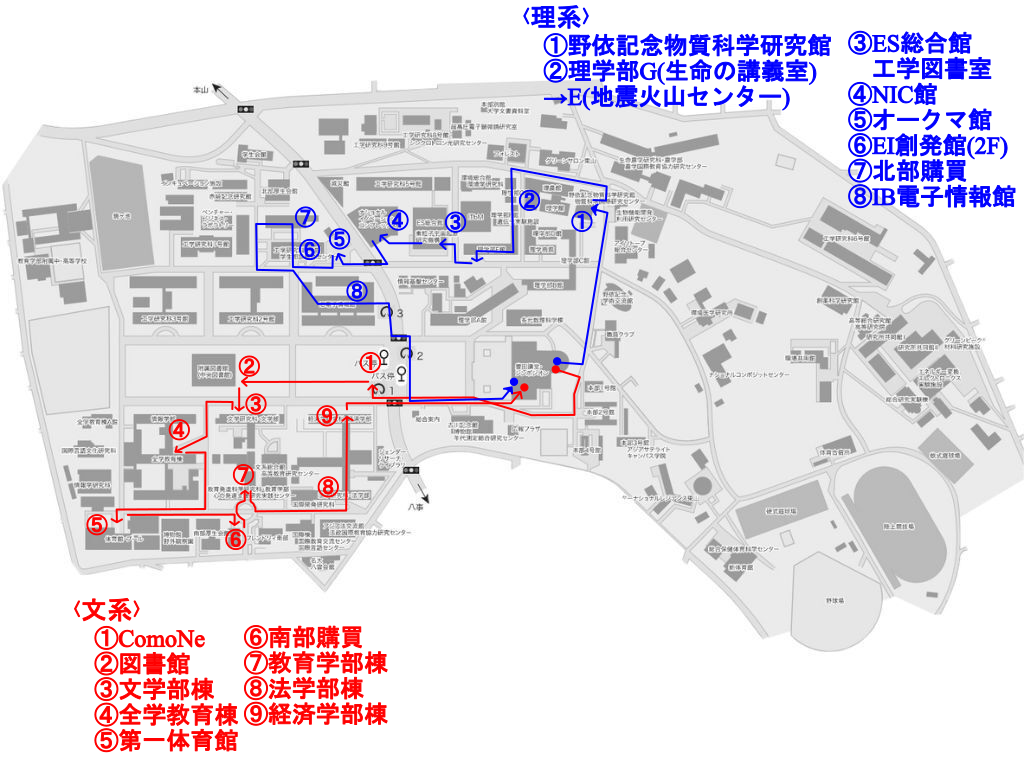
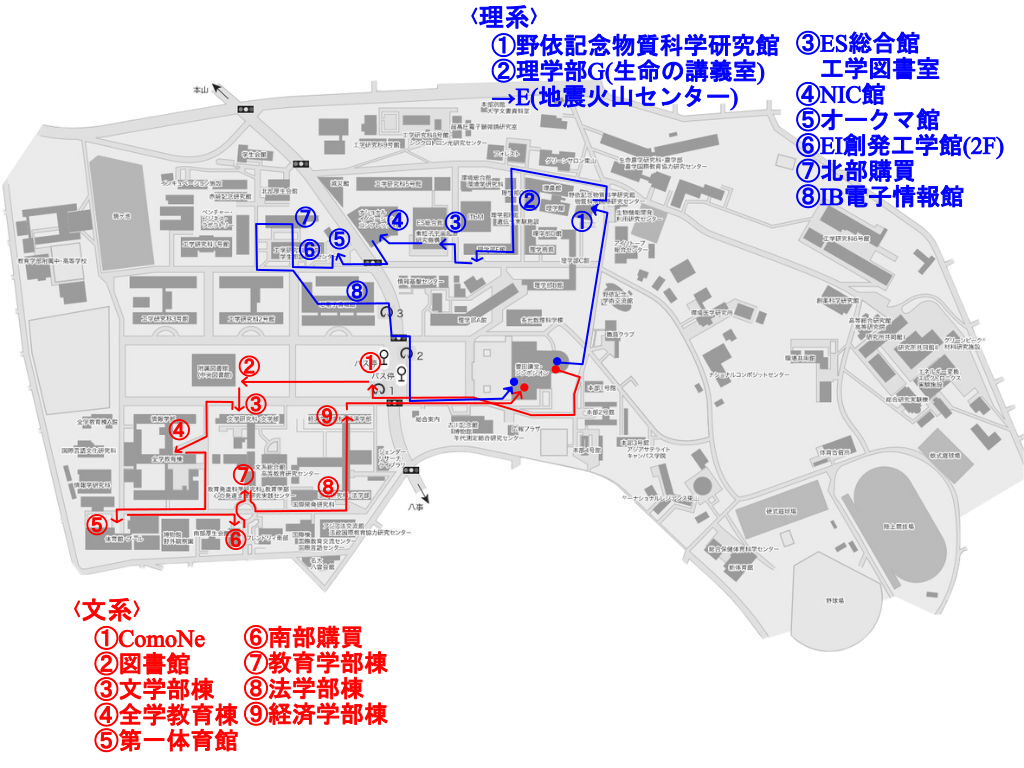
部会での指摘の修正版

Changed region(s): [[0.4688, 0.0, 1.0, 0.2812]]

diff --git a/content/event/tour/index.html b/content/event/tour/index.html
@@ -88,15 +88,17 @@
 <div class="text order2">
 <h4>日時</h4>
 <p>ツアーは1回あたり最大50分を予定しています。</p>
+<p>11:30と12:30と14:30の回では、1つのルートを2つのグループに分けて散策します。</p>
 <p>定員は1回あたり15人を予定しています。</p>
 <p>ツアー1組につき2名の名大生が皆さんをご案内します。</p>
+
 </div>
 
 <div class="image w1 order1">
-<img src="photo/tour-tt.jpg" alt="">
-<div>
-<p>11:30と12:30と13:30の回では、1つのコースを2つのグループに分けて逆順に散策します！</p>
-</div>
+<img src="photo/campus tour_TT.png" alt="">
+<!--<div>
+<p>11:30と12:30と14:30の回では、1つのルートを2つのグループに分けて散策します。</p>
+</div>-->
 </div>
 
 </div>
@@ -110,16 +112,16 @@
 
 <div class="text order1 mt1">
 <h4>ツアー内容</h4>
-<p>ツアーには文系ツアーと理系ツアーの2種類がございます。文系ツアーでは主に1年生が使う南部地区をメインに散策します。
-	理系ツアーでは、主に、北部地区と東部地区を散策します。</p>
+<p>ツアーには文系ルートと理系ルートの2種類がございます。文系ルートでは主に1年生が使う南部地区をメインに散策します。
+	理系ルートでは、主に、北部地区と東部地区を散策します。</p>
 </div>
 
 <div class="image w2 order3">
 <img src="photo/tour-map.png" alt="">
-<!-- <div>
-<p>必要があればここにもコメントを入れます。サンプルテキスト。必要があればここにもコメントを入れます。サンプルテキスト。必要があればここにもコメントを入れます。サンプルテキスト。必要があればここにもコメントを入れます。サンプルテキスト。</p>
+<div>
+<p>この図は、正順です。</p>
 </div>
-<img src="../../../images/2.jpg" alt="">
+<!-- <img src="../../../images/2.jpg" alt="">
 <div>
 <p>必要があればここにもコメントを入れます。サンプルテキスト。必要があればここにもコメントを入れます。サンプルテキスト。必要があればここにもコメントを入れます。サンプルテキスト。必要があればここにもコメントを入れます。サンプルテキスト。</p>
 </div> -->
@@ -141,10 +143,11 @@
 <p>以下の1,2のいずれかの方法でツアーに参加してください。</p>
 <p>1.参加を希望するツアーの整理券を事前に受けとる。</p>
 <p>整理券は当日、ツアー受付で配布します。</p>
-<p>ツアー受付は、豊田講堂2階の屋外への出口付近で行います。2階では、対談コーナーがございます。中の階段を上ってお越しください。</p>
-<p>※整理券は各回1ルートに対して15枚ご用意しております。</p>
-<p>※各ツアーの15分前は、2の扱いとなるため、定員を超える場合は参加いただけません。</p>
-<p>2.出発の15分名に直接豊田講堂2階のツアー受付に行く。</p>
+<p>ツアー受付は、豊田講堂2階の屋外への出口付近で行います。1階では、対談コーナーがございます。中の階段を上ってお越しください。</p>
+<p>※整理券ははツアー1本に対して15枚ご用意しております。</p>
+<p>※理系・文系ルートそれぞれで15枚です。理系・文系ルートそれぞれ2本ずつ出発する時間帯は、ルートそれぞれで、30枚ずつご用意しており、1つの時間帯あたり計60枚をご用意いたします。</p>
+<p>※各ツアーの15分前は、2の扱いとなるため定員を超える場合は参加いただけません。</p>
+<p>2.出発の15分前に直接豊田講堂2階のツアー受付に行く。</p>
 <p>※定員の15人を超える場合は参加いただけません。</p>
 </div>
 
@@ -176,16 +179,19 @@
 	<li>熱中症対策品</li>
 	<p>当日は、暑くなることが予想されます。</p>
 	<p>各自で暑さ対策をしていただくようお願いします。</p>
+	<br>
 	<h4>注意事項</h4>
 	<p>参加を希望されるツアー出発時間前に、余裕を持ってお越しください。</p>
 	<p>企画中は、スタッフの指示に従ってください。</p>
 	<p>歩きやすい服装でお越しください。</p>
 	<p>必ず飲み物をご持参ください。</p>	
+	<br>
 	<h4>体調不良の場合</h4>
 	<p>企画中に体調が優れなくなった場合は、直ちにスタッフにお声かけ下さい。</p>
+	<br>
 	<h4>雨天時や猛暑の場合</h4>
 	<p>ツアーの規模縮小・中止の可能性があります。</p>
-	<p>雨天や猛暑によるツアーの中止の判断は、ツアー開始の15前に行います。中止の連絡は受付周辺と学生委員会のSNSで行います。
+	<p>雨天や猛暑によるツアーの中止の判断は、ツアー開始の15分前に行います。中止の連絡は受付周辺と学生委員会のSNSで行います。
 		なお、ツアーの中止の場合は、豊田講堂2階にて代替企画を行います。スタッフが動画にて、構内を案内いたします。
 	</p>
 
